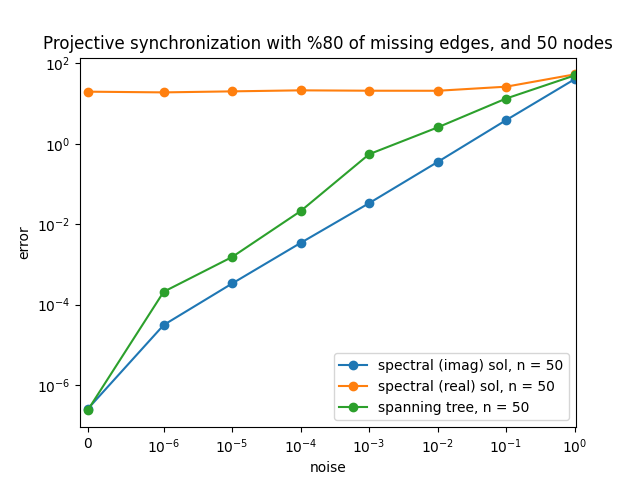
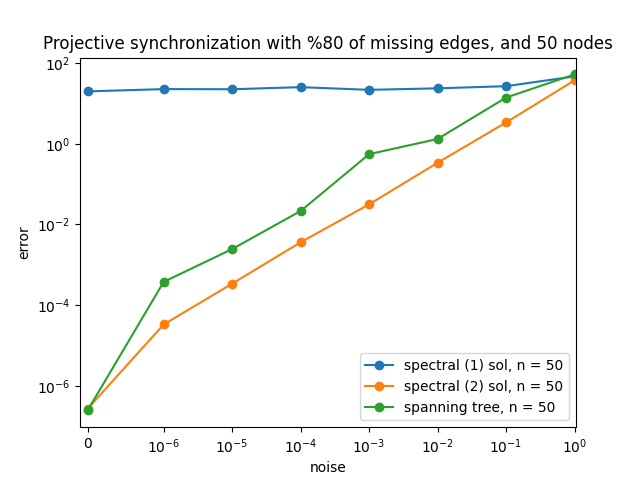
Updated tests and results

diff --git a/tests/multi_source_propagation.py b/tests/multi_source_propagation.py
@@ -15,24 +15,27 @@ def add_outliers(Z_scaled: np.ndarray, Z_not_scaled: np.ndarray, A: np.ndarray, 
     for k in outliers:
         i, j = valid_transformations[k]
         random_homography = np.random.rand(4, 4)
+        random_homography_inverse = np.linalg.inv(random_homography)
         Z_not_scaled[4 * i: 4 * (i + 1), 4 * j: 4 * (j + 1)] = random_homography
+        Z_not_scaled[4 * j: 4 * (j + 1), 4 * i: 4 * (i + 1)] = random_homography_inverse
         det = np.linalg.det(random_homography)
         Z_scaled[4 * i: 4 * (i + 1), 4 * j: 4 * (j + 1)] = random_homography / np.power(det, 0.25, dtype=complex)
+        Z_scaled[4 * j: 4 * (j + 1), 4 * i: 4 * (i + 1)] = random_homography_inverse * np.power(det, 0.25, dtype=complex)
     return Z_scaled, Z_not_scaled
 
 
 def test(n: int, sigma: float, miss_rate: float, outliers_percent: float):
     Z, A, X_not_scaled, Z_not_scaled = build_z_projective_tr(n, 4)
-    # Z += np.random.randn(Z.shape[0], Z.shape[1]) * sigma
     Z_not_scaled += np.random.randn(Z.shape[0], Z.shape[1]) * sigma
     for i in range(n):
         for j in range(n):
             det_zij = np.power(np.linalg.det(Z_not_scaled[i * 4: (i + 1) * 4, j * 4: (j + 1) * 4]), 0.25, dtype=complex)
             Z[i * 4: (i + 1) * 4, j * 4: (j + 1) * 4] = Z_not_scaled[i * 4: (i + 1) * 4, j * 4: (j + 1) * 4] / det_zij
     num_elements = np.sum(np.arange(n - 1))
-    A = delete_info(A, int(miss_rate * num_elements), n)
+    num_to_delete = int(miss_rate * num_elements)
+    A = delete_info(A, num_to_delete, n)
     if outliers_percent > 0.0:
-        Z, Z_not_scaled = add_outliers(np.copy(Z), np.copy(Z_not_scaled), A, int(outliers_percent * num_elements), n)
+        Z, Z_not_scaled = add_outliers(np.copy(Z), np.copy(Z_not_scaled), A, int(outliers_percent * (num_elements - num_to_delete)), n)
     U_msp, max_degree_node = multi_source_propagation(Z_not_scaled, A)
     X_scaled = utils.scale_matrices(X_not_scaled, 4, max_degree_node)
     U_spectral, _ = projective_synch(Z, A, root=max_degree_node)
@@ -72,7 +75,7 @@ def test_different_noise(n: int, miss_rate: float, num_repeat: int, outliers_per
 
 
 def test_outliers(n: int, miss_rate: float, num_repeat: int, noise: float):
-    outliers_percent = np.linspace(0, 0.8, 10)
+    outliers_percent = np.linspace(0, 0.2, 10)
     errors_spanning, errors_msp, errors_spectral = list(), list(), list()
     std_spanning, std_msp, std_spectral = list(), list(), list()
     for outliers in outliers_percent:
@@ -105,6 +108,6 @@ def test_outliers(n: int, miss_rate: float, num_repeat: int, noise: float):
 
 
 if __name__ == '__main__':
-    #test_different_noise(100, 0.8, 20)
-    #test_outliers(100, 0.5, 30, 1e-4)
+    test_different_noise(100, 0.8, 20)
+    test_outliers(100, 0.5, 20, 1e-4)
     test_outliers(100, 0.8, 30, 1e-4)

diff --git a/tests/projective_spanning_spectral_comparison.py b/tests/projective_spanning_spectral_comparison.py
@@ -60,8 +60,8 @@ def test_different_noise(dimensions: list, miss_rate: float):
             errors_pr_imag_synch.append(err_pr_imag)
             errors_spanning_synch.append(err_sp)
         plt.figure()
-        plt.plot(sigmas, errors_pr_imag_synch, 'o-', label=f'spectral (imag) sol, n = {n}')
-        plt.plot(sigmas, errors_pr_real_synch, 'o-', label=f'spectral (real) sol, n = {n}')
+        plt.plot(sigmas, errors_pr_real_synch, 'o-', label=f'spectral (1) sol, n = {n}')
+        plt.plot(sigmas, errors_pr_imag_synch, 'o-', label=f'spectral (2) sol, n = {n}')
         plt.plot(sigmas, errors_spanning_synch, 'o-', label=f'spanning tree, n = {n}')
         plt.yscale('log')
         plt.xscale('symlog', linthresh=1e-6)
@@ -86,8 +86,8 @@ def test_missing_info(dimensions: list, sigmas: list):
             errors_pr_real_synch.append(err_pr_real)
             errors_pr_imag_synch.append(err_pr_imag)
             errors_spanning_synch.append(err_sp)
-        plt.semilogy(incomplete_percent * 100, errors_pr_imag_synch, 'o-', label=f'spectral (imag) sol, n = {n}, sigma = {sigma}')
-        plt.semilogy(incomplete_percent * 100, errors_pr_real_synch, 'o-', label=f'spectral (real) sol, n = {n}, sigma = {sigma}')
+        plt.semilogy(incomplete_percent * 100, errors_pr_imag_synch, 'o-', label=f'spectral (2) sol, n = {n}, sigma = {sigma}')
+        plt.semilogy(incomplete_percent * 100, errors_pr_real_synch, 'o-', label=f'spectral (1) sol, n = {n}, sigma = {sigma}')
         plt.semilogy(incomplete_percent * 100, errors_spanning_synch, 'o-', label=f'spanning tree, n = {n}, sigma = {sigma}')
     plt.xlabel('% missing data')
     plt.ylabel('error')
